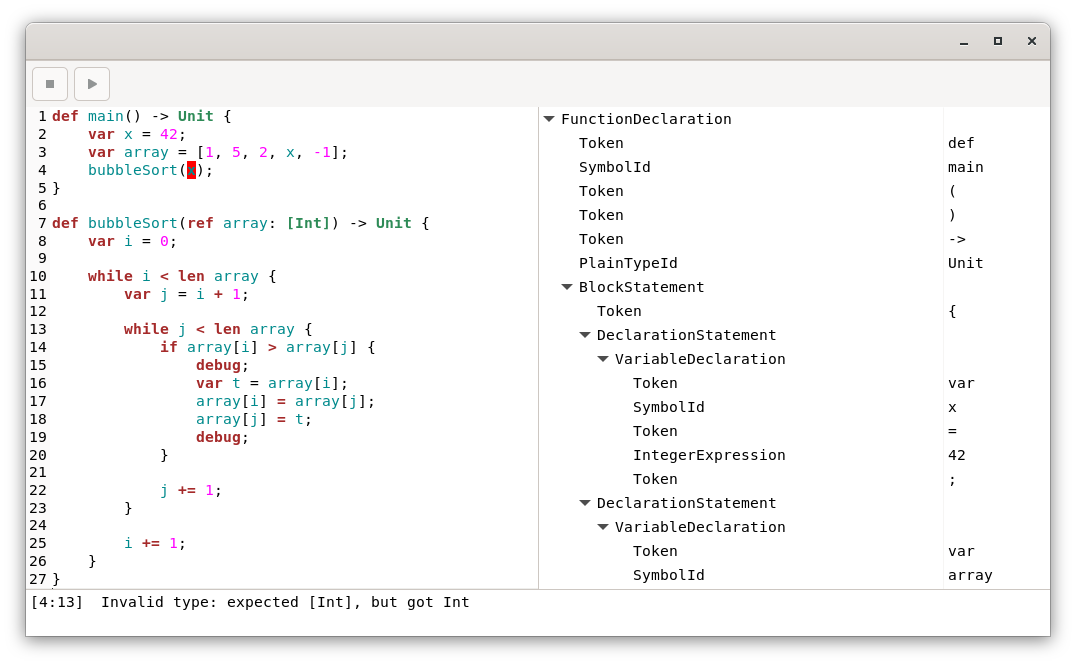
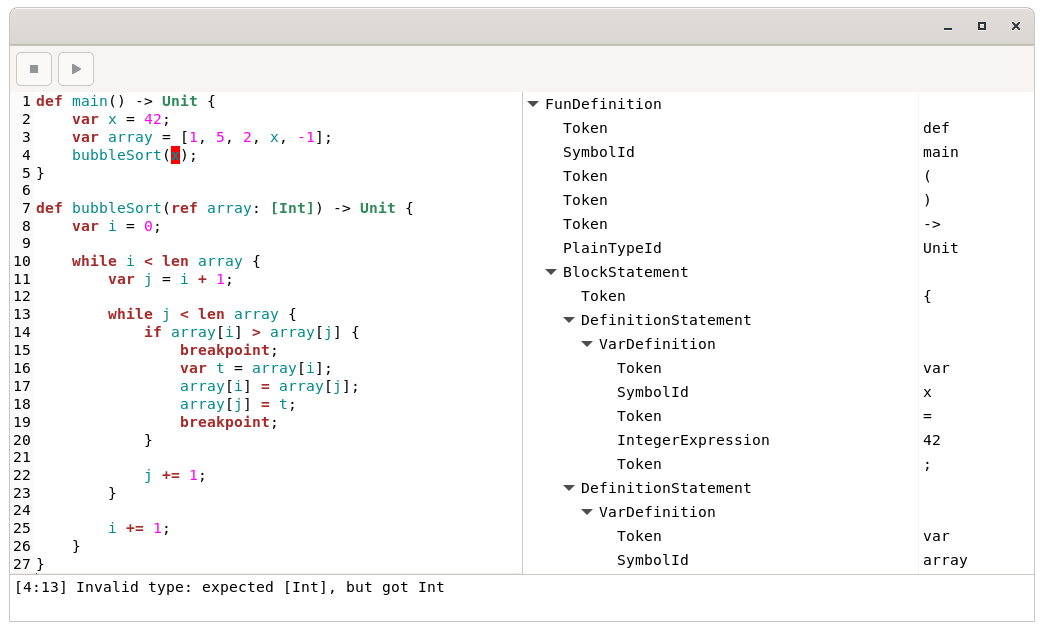
Rename: `debug` -> `breakpoint`

diff --git a/thesis/thesis.tex b/thesis/thesis.tex
@@ -1390,7 +1390,7 @@
   Entities from modules can also be imported in an unqualified manner, by
   omitting the \lstinline@qualified@ keyword and \lstinline@as@ clause. In the
   following, \lstinline@nub@ can be used without qualification:
-  
+
   \begin{lstlisting}[gobble=4,basicstyle=\ttfamily\small]
     import Data.List
 
@@ -2227,14 +2227,14 @@
 
   Once a valid program has been written, it can be run by clicking the
   $\blacktriangleright$ button. The state of execution can be observed with
-  debug statements; these signal the evaluator to pause execution and display
-  the current \emph{runtime stack}---the data structure which maps variables and
-  function arguments to their values. Each time a function gets called, a new
-  \emph{frame} is pushed onto the stack; it contains associations between the
-  parameter names and the passed values. Variable definitions within the called
-  function add new associations to the newly pushed frame. When the called
-  function returns, the topmost frame is popped off the stack and execution
-  continues normally.
+  breakpoint statements; these signal the evaluator to pause execution and
+  display the current \emph{runtime stack}---the data structure which maps
+  variables and function arguments to their values. Each time a function gets
+  called, a new \emph{frame} is pushed onto the stack; it contains associations
+  between the parameter names and the passed values. Variable definitions within
+  the called function add new associations to the newly pushed frame. When the
+  called function returns, the topmost frame is popped off the stack and
+  execution continues normally.
 
   Devin has been designed with simplicity of implementation in mind. In
   particular, Devin's call stack exhibits two properties:
@@ -2466,7 +2466,7 @@
 
   Any expression followed by a semicolon becomes a statement. The type
   \lstinline@Statement@ represents these, along with if, while, do-while,
-  return, assert, debug and block statements.
+  return, assert, breakpoint and block statements.
 
   In any point in which a statement may occur, a variable or function definition
   can be placed instead. The data constructor \lstinline@DefinitionStatement@
@@ -2523,8 +2523,8 @@
         semicolon :: Token
       } -> Statement
 
-      DebugStatement :: {
-        debugKeyword :: Token,
+      BreakpointStatement :: {
+        breakpointKeyword :: Token,
         semicolon :: Token
       } -> Statement
 
@@ -3250,10 +3250,10 @@
       pure False
   \end{lstlisting}
 
-  For debug statements, nothing needs to be done.
+  For breakpoint statements, nothing needs to be done.
 
   \begin{lstlisting}[gobble=4,basicstyle=\ttfamily\small]
-    checkStatement _ DebugStatement {} = pure False
+    checkStatement _ BreakpointStatement {} = pure False
   \end{lstlisting}
 
   Finally, blocks are type checked by recursively checking all statements they
@@ -3415,16 +3415,16 @@
 
   An \lstinline@Evaluator@ represents a computation which updates a
   \lstinline@State@, possibly producing some side-effect. To allow execution to
-  be interrupted by debug statements, the algebraic data type \lstinline@Result@
-  is provided. It has three constructors:
+  be interrupted by breakpoint statements, the algebraic data type
+  \lstinline@Result@ is provided. It has three constructors:
 
   \begin{itemize}
     \item \lstinline@Done@, if the last statement has been executed. This data
     constructor stores the result of the computation.
 
-    \item \lstinline@Debug@, if a debug statement has been reached. The debug
-    statement, along with the next step to execute, is stored by this
-    constructor.
+    \item \lstinline@Breakpoint@, if a breakpoint statement has been reached.
+    The breakpoint statement, along with the next step to execute, is stored by
+    this constructor.
 
     \item \lstinline@Error@, if an error occurred at runtime.
   \end{itemize}
@@ -3432,7 +3432,7 @@
   \begin{lstlisting}[gobble=4,basicstyle=\ttfamily\small]
     data Result a
       = Done a
-      | Debug Statement (Evaluator a)
+      | Breakpoint Statement (Evaluator a)
       | Error Error
       deriving Functor
   \end{lstlisting}
@@ -3525,7 +3525,7 @@
 
       case result of
         Done x -> pure (Right x, state')
-        Debug _ mx -> runEvaluator mx state'
+        Breakpoint _ mx -> runEvaluator mx state'
         Error error -> pure (Left error, state')
   \end{lstlisting}
 
@@ -3545,7 +3545,7 @@
 
         case result of
           Done x -> runEvaluatorStep (f x <$> my) state'
-          Debug statement mx -> pure (Debug statement (liftA2 f mx my), state')
+          Breakpoint statement mx -> pure (Breakpoint statement (liftA2 f mx my), state')
           Error error -> pure (Error error, state')
 
     instance Monad Evaluator where
@@ -3555,7 +3555,7 @@
 
         case result of
           Done x -> runEvaluatorStep (f x) state'
-          Debug statement mx -> pure (Debug statement (f =<< mx), state')
+          Breakpoint statement mx -> pure (Breakpoint statement (f =<< mx), state')
           Error error -> pure (Error error, state')
   \end{lstlisting}
 
@@ -3655,15 +3655,17 @@
         popFrame = Evaluator (\state -> pure (Done (), tail state))
   \end{lstlisting}
 
-  Finally, the functions \lstinline@debug@ and \lstinline@raise@ are provided
-  for convenience.
+  Finally, the functions \lstinline@breakpoint@ and \lstinline@raise@ are
+  provided for convenience.
 
   \begin{lstlisting}[gobble=4,basicstyle=\ttfamily\small]
-    debug :: Statement -> Evaluator ()
-    debug statement = Evaluator (\state -> pure (Debug statement (pure ()), state))
+    breakpoint :: Statement -> Evaluator ()
+    breakpoint statement = Evaluator $ \state ->
+      pure (Breakpoint statement (pure ()), state)
 
     raise :: Error -> Evaluator a
-    raise error = Evaluator (\state -> pure (Error error, state))
+    raise error = Evaluator $ \state ->
+      pure (Error error, state)
   \end{lstlisting}
 
   \subsection{Evaluating expressions}
@@ -4238,11 +4240,11 @@
           raise (InvalidType predicate Type.Bool t)
   \end{lstlisting}
 
-  Debug statements are handled trivially.
+  Breakpoint statements are handled trivially.
 
   \begin{lstlisting}[gobble=4,basicstyle=\ttfamily\small]
-    evalExpression DebugStatement {} = do
-      debug statement
+    evalExpression BreakpointStatement {} = do
+      breakpoint statement
       pure Nothing
   \end{lstlisting}
 
@@ -4642,7 +4644,7 @@
         doWhileStatement,
         returnStatement,
         assertStatement,
-        debugStatement,
+        breakpointStatement,
         expressionStatement,
         blockStatement
       ]
@@ -4721,14 +4723,15 @@
       pure (AssertStatement assertKeyword predicate semicolon)
   \end{lstlisting}
 
-  Debug statements are just a \lstinline@debug@ keyword followed by a semicolon.
+  Breakpoint statements are just a \lstinline@breakpoint@ keyword followed by a
+  semicolon.
 
   \begin{lstlisting}[gobble=4,basicstyle=\ttfamily\small]
-    debugStatement :: Stream s m Char => ParserT s m Statement
-    debugStatement = do
-      debugKeyword <- keyword "debug"
+    breakpointStatement :: Stream s m Char => ParserT s m Statement
+    breakpointStatement = do
+    breakpointKeyword <- keyword "breakpoint"
       semicolon <- s *> token ";"
-      pure (DebugStatement debugKeyword semicolon)
+      pure (BreakpointStatement breakpointKeyword semicolon)
   \end{lstlisting}
 
   Finally, block statements are parsed as an open brace, followed by zero or
@@ -5081,8 +5084,8 @@
   exemplify how source code corresponds to syntax trees; with the GTK+ library,
   I developed an interface which not only performs syntax highlighting, but also
   visualizes this correspondence. Additionally, Devin's UI implements a
-  debugger; with the \lstinline@debug@ statement, execution can be suspended at
-  arbitrary locations, allowing for the program's state to be observed. I
+  debugger; with the \lstinline@breakpont@ statement, execution can be suspended
+  at arbitrary locations, allowing for the program's state to be observed. I
   demonstrated how a monadic mechanism can be used to represent pausable
   computations; more complex solutions might be required in different
   circumstances. Availability of practical material discussing this matter is
